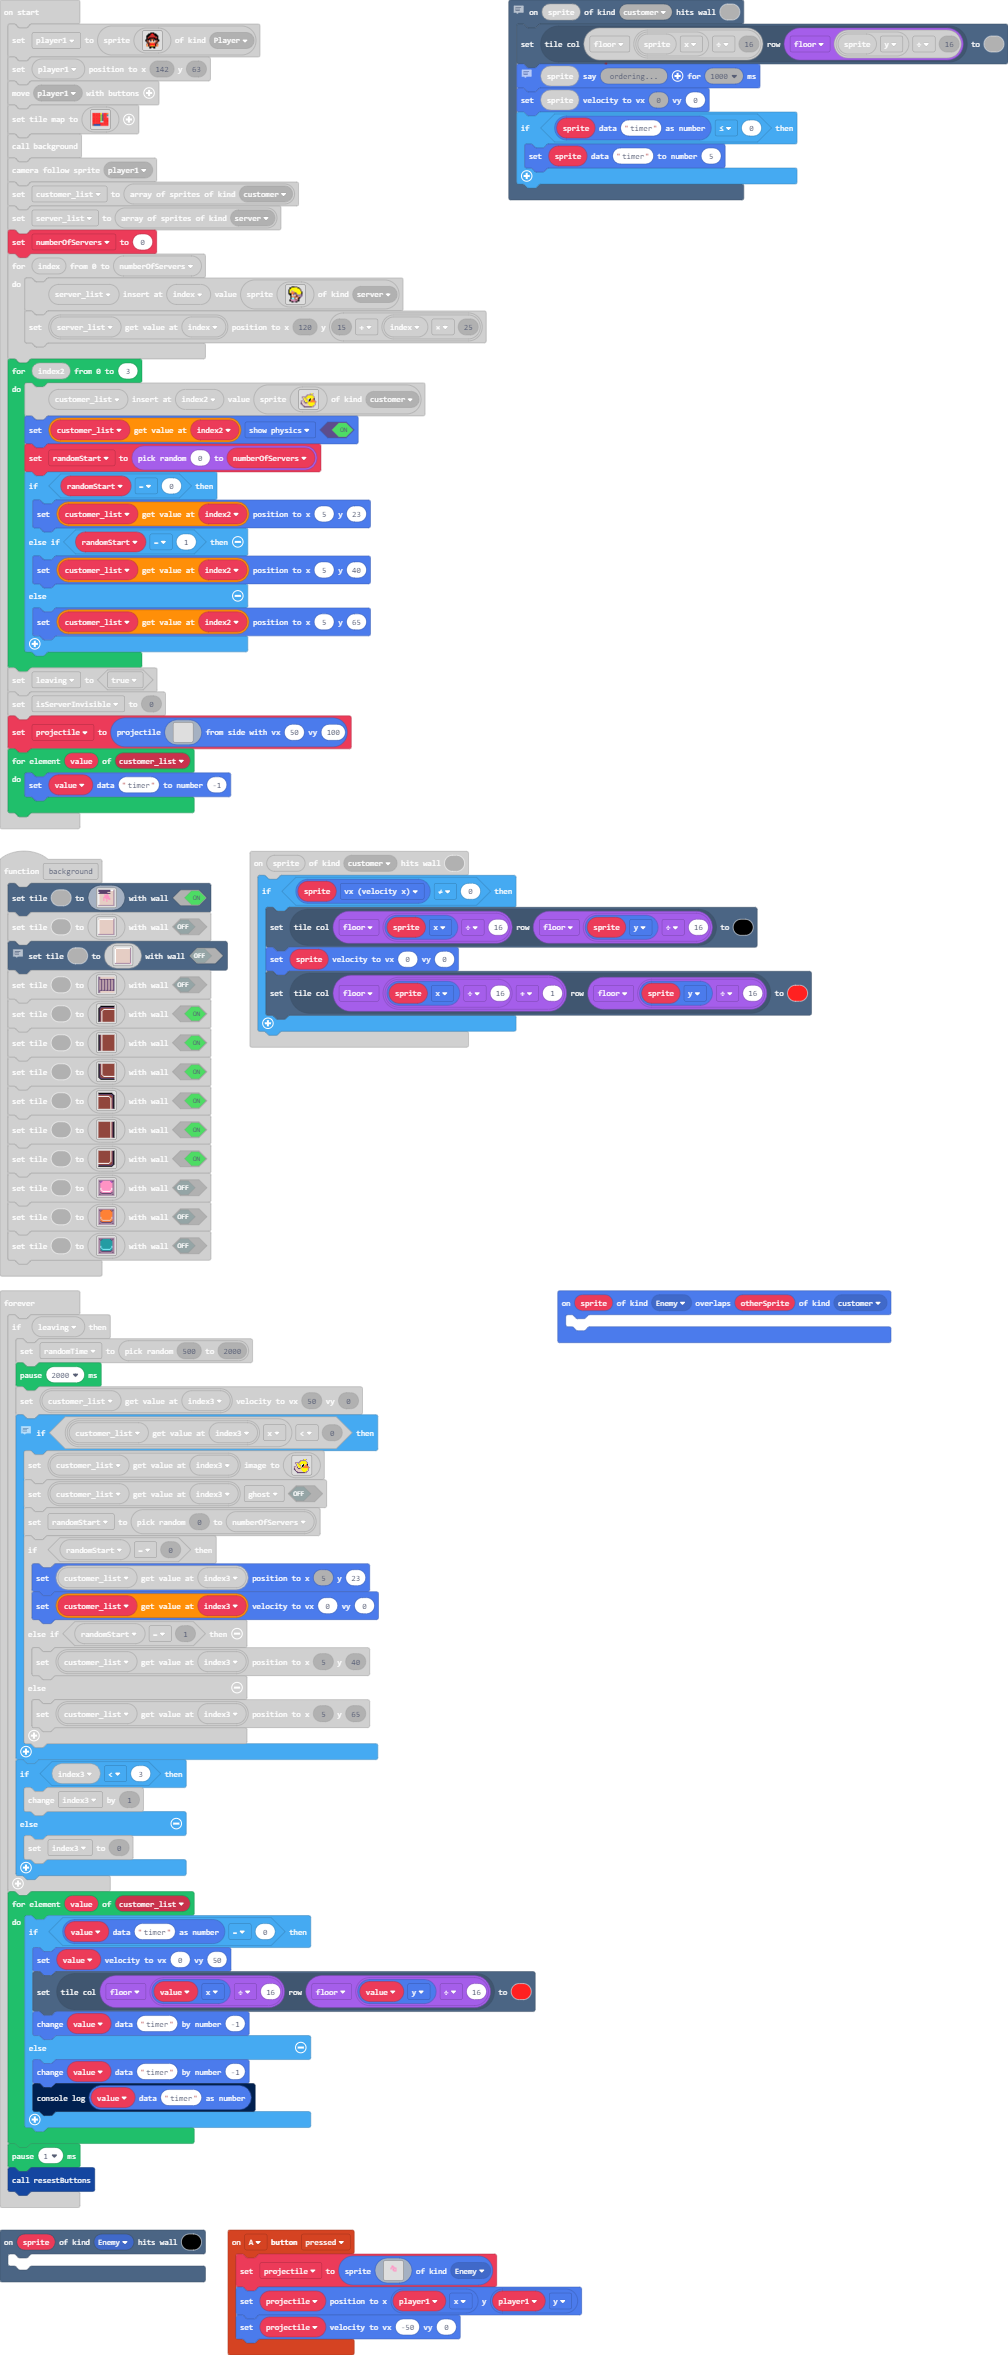
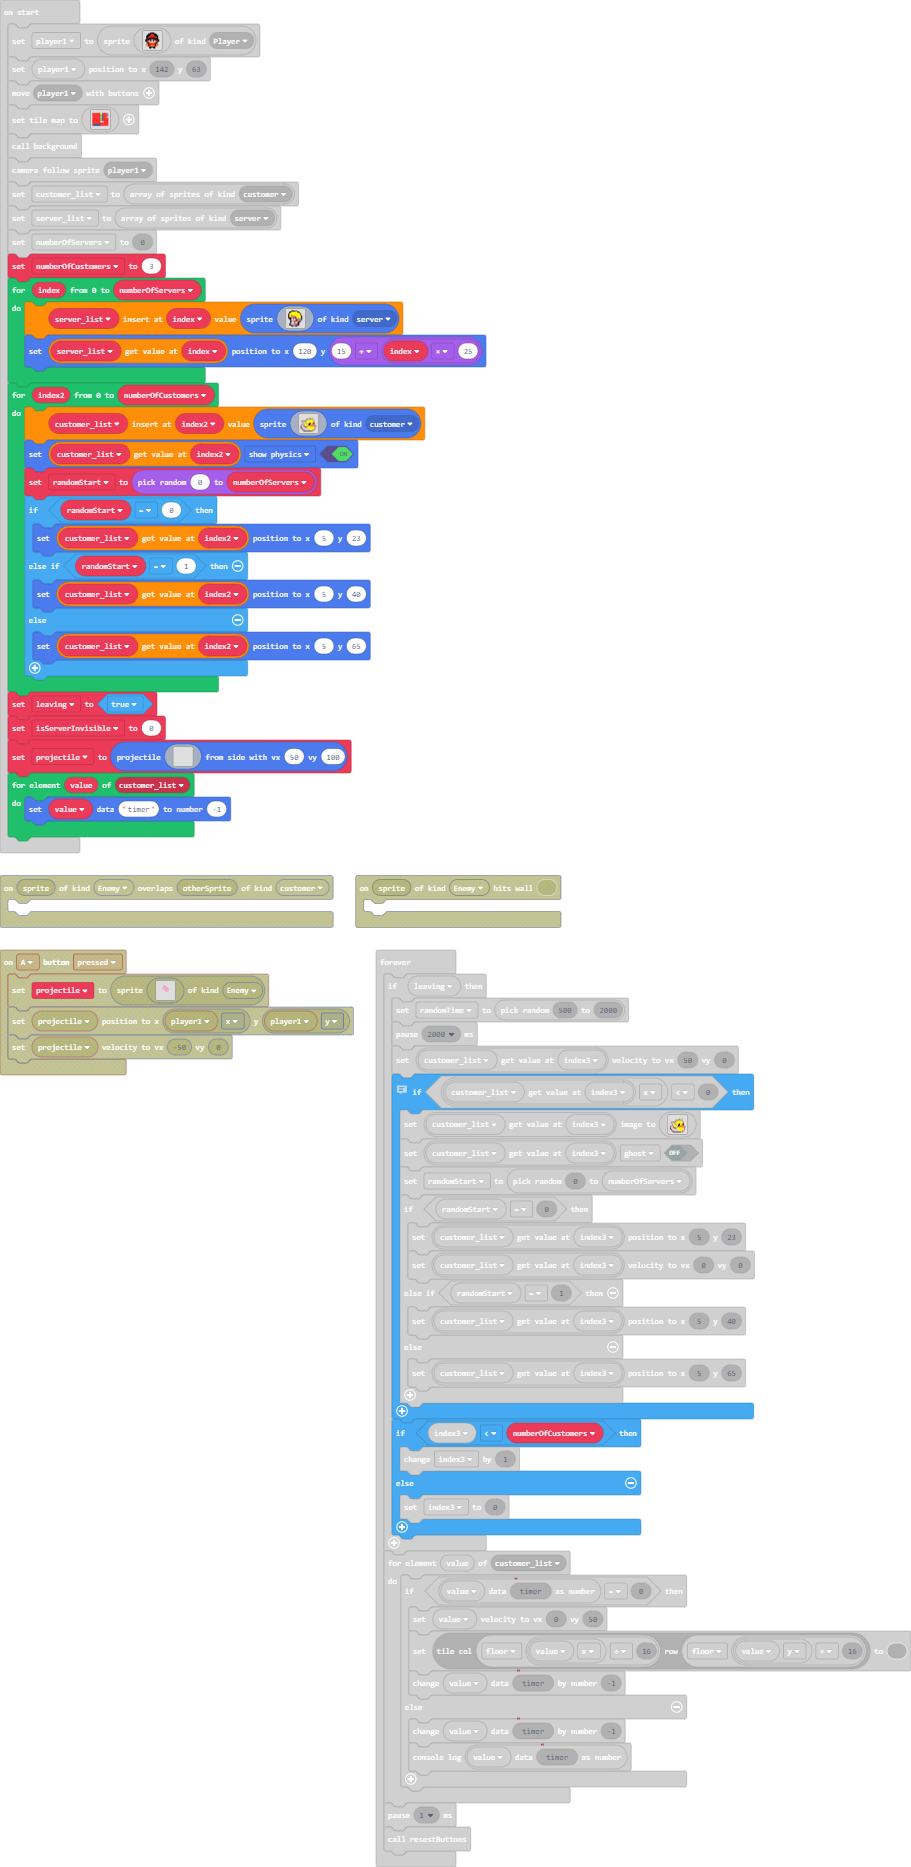
Update main.blocks, main.ts

diff --git a/main.ts b/main.ts
@@ -587,34 +587,9 @@ b 4 4 4 4 4 4 5 b 5 5 d c d d b
 `)
     leaving = false
 })
-controller.A.onEvent(ControllerButtonEvent.Pressed, function () {
-    projectile = sprites.create(img`
-. . . . . . . . . . . . . . . . 
-. . . . . . . . . . . . . . . . 
-. . . . . . . . . . . . . . . . 
-. . . . . . 3 3 . . . . . . . . 
-. . . . . . 3 3 3 . . . . . . . 
-. . . . . 3 3 . 3 3 3 . . . . . 
-. . . . . 3 . 3 3 . 3 . . . . . 
-. . . . . . . 3 3 . 3 . . . . . 
-. . . . . . . . 3 3 3 . . . . . 
-. . . . . . . . . . . . . . . . 
-. . . . . . . . . . . . . . . . 
-. . . . . . . . . . . . . . . . 
-. . . . . . . . . . . . . . . . 
-. . . . . . . . . . . . . . . . 
-. . . . . . . . . . . . . . . . 
-. . . . . . . . . . . . . . . . 
-`, SpriteKind.Enemy)
-    projectile.setPosition(player1.x, player1.y)
-    projectile.setVelocity(-50, 0)
-})
 scene.onOverlapTile(SpriteKind.customer, sprites.dungeon.stairEast, function (sprite, location) {
     leaving = true
     sprite.setFlag(SpriteFlag.Ghost, true)
-})
-sprites.onOverlap(SpriteKind.Enemy, SpriteKind.customer, function (sprite, otherSprite) {
-	
 })
 function resestButtons () {
     scene.setTile(3, img`
@@ -693,19 +668,14 @@ b c b b b b b b b b b b b b c b
 b b b b b b b b b b b b b b b b 
 `, false)
 })
-scene.onHitTile(SpriteKind.Enemy, 15, function (sprite) {
-	
-})
 let index3 = 0
 let randomTime = 0
-let projectile: Sprite = null
 let isServerInvisible = 0
 let leaving = false
 let randomStart = 0
 let numberOfServers = 0
 let server_list: Sprite[] = []
-let player1: Sprite = null
-player1 = sprites.create(img`
+let player1 = sprites.create(img`
 . . . . . . f f f f . . . . . . 
 . . . . f f f 2 2 f f f . . . . 
 . . . f f f 2 2 2 2 f f f . . . 
@@ -740,6 +710,7 @@ scene.cameraFollowSprite(player1)
 let customer_list = sprites.allOfKind(SpriteKind.customer)
 server_list = sprites.allOfKind(SpriteKind.server)
 numberOfServers = 0
+let numberOfCustomers = 3
 for (let index = 0; index <= numberOfServers; index++) {
     server_list.insertAt(index, sprites.create(img`
 . . . f f f c c c . . . . . 
@@ -761,7 +732,7 @@ f f f 4 4 c b c b 5 5 5 b f
 `, SpriteKind.server))
     server_list[index].setPosition(120, 15 + index * 25)
 }
-for (let index2 = 0; index2 <= 3; index2++) {
+for (let index2 = 0; index2 <= numberOfCustomers; index2++) {
     customer_list.insertAt(index2, sprites.create(img`
 . . . . . . . . . . . . . . . . 
 . . . . . . . . . . . . . . . . 
@@ -792,7 +763,7 @@ c b d d d d d 5 5 5 5 5 5 5 b .
 }
 leaving = true
 isServerInvisible = 0
-projectile = sprites.createProjectileFromSide(img`
+let projectile = sprites.createProjectileFromSide(img`
 . . . . . . . . . . . . . . . . 
 . . . . . . . . . . . . . . . . 
 . . . . . . . . . . . . . . . . 
@@ -849,7 +820,7 @@ c b d d d d d 5 5 5 5 5 5 5 b .
                 customer_list[index3].setPosition(5, 65)
             }
         }
-        if (index3 < 3) {
+        if (index3 < numberOfCustomers) {
             index3 += 1
         } else {
             index3 = 0
